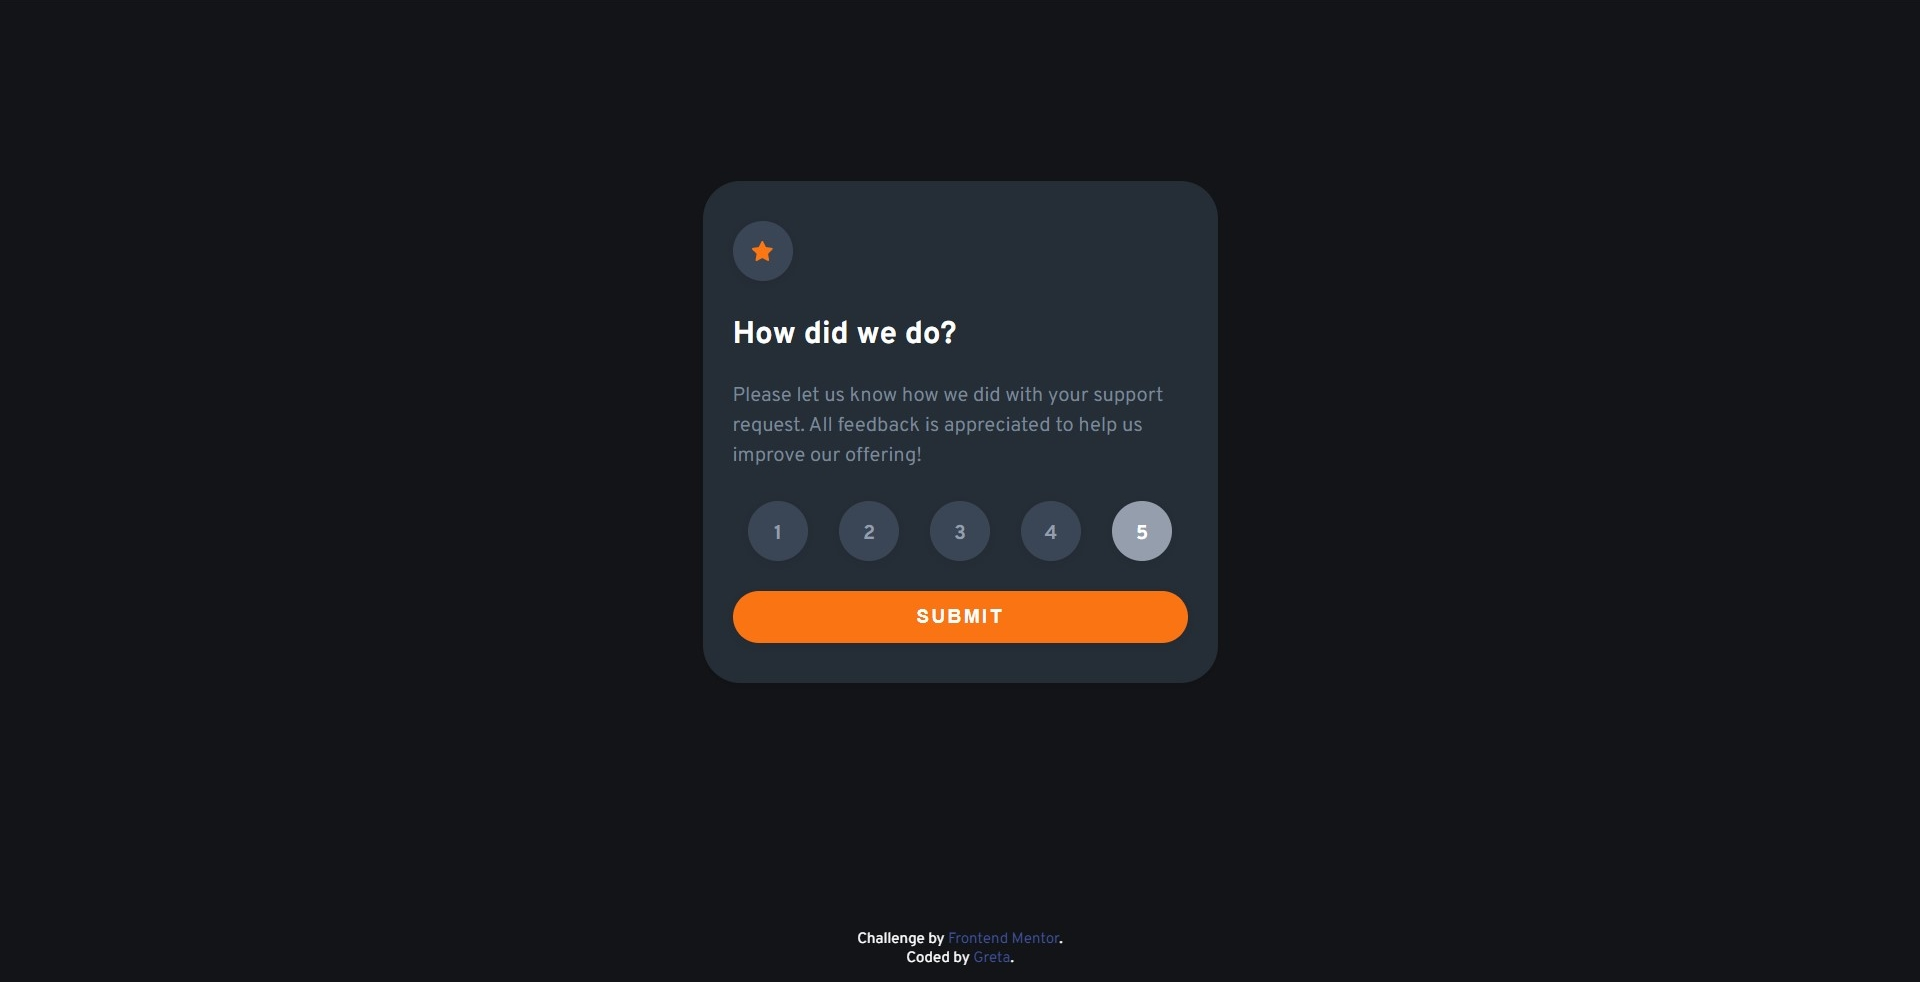
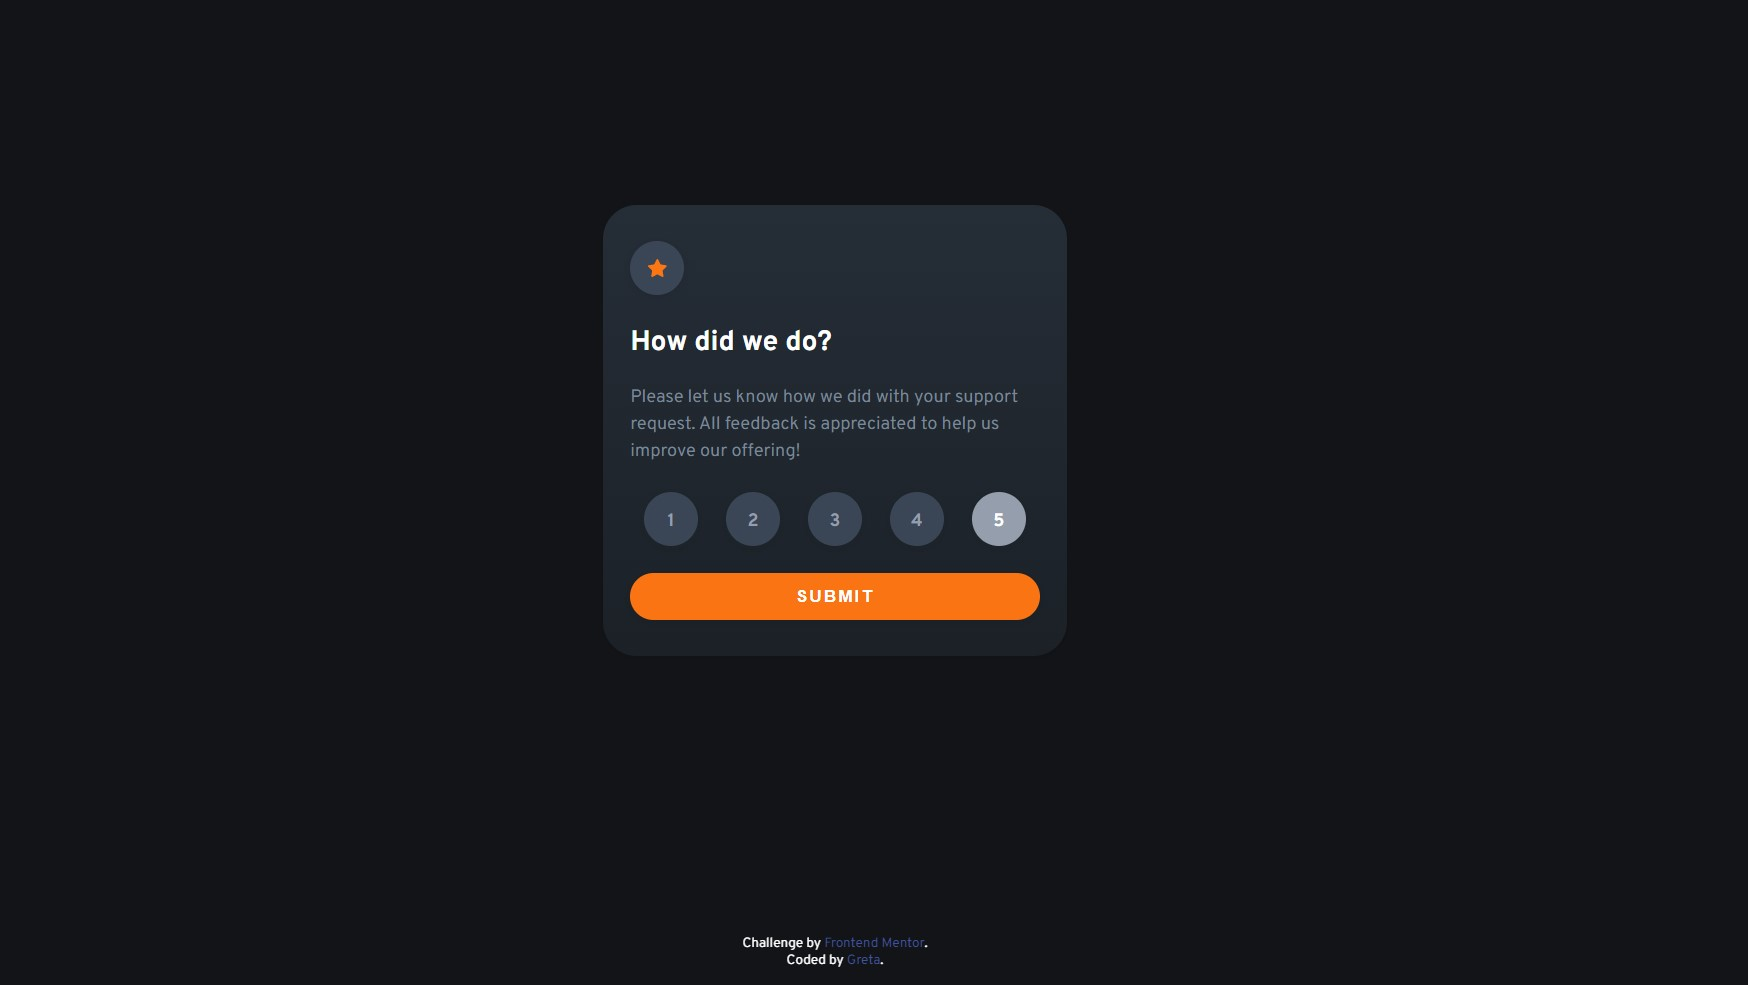
Update form and js

Changed region(s): [[0.3398, 0.1833, 0.6487, 0.7026], [0.4325, 0.947, 0.5561, 0.9776]]

diff --git a/interactive-rating-component-main/index.html b/interactive-rating-component-main/index.html
@@ -10,11 +10,6 @@
       href="./images/favicon-32x32.png"
     />
     <title>Frontend Mentor | Interactive rating component</title>
-    <style>
-      @import url("https://fonts.googleapis.com/css2?family=Overpass:wght@400;700&display=swap");
-    </style>
-    <script src="./js/jquery-3.6.0.min.js"></script>
-    <script src="./js/app.js"></script>
     <link rel="stylesheet" href="./style/style.css" />
   </head>
   <body>
@@ -27,7 +22,7 @@
           Please let us know how we did with your support request. All feedback
           is appreciated to help us improve our offering!
         </p>
-        <form target="iframe_to_remain_same_page" method="get">
+        <form method="get">
           <div class="rating-buttons">
             <label for="rate-1" class="btn-rate shadow rounded-circle"
               >1<input required type="radio" name="rate" id="rate-1" value="1"
@@ -53,12 +48,6 @@
             SUBMIT
           </button>
         </form>
-        <!-- iframe used for staying on the same page after submit -->
-        <iframe
-          id="id_iframe"
-          name="iframe_to_remain_same_page"
-          style="display: none"
-        ></iframe>
       </section>
 
       <!-- Page 2: Success -->
@@ -83,5 +72,8 @@
       Coded by
       <a href="https://github.com/GretaLi">Greta</a>.
     </footer>
+
+    <script src="./js/jquery-3.6.0.min.js"></script>
+    <script src="./js/app.js"></script>
   </body>
 </html>

diff --git a/interactive-rating-component-main/js/app.js b/interactive-rating-component-main/js/app.js
@@ -6,14 +6,16 @@ $(document).ready(function () {
   });
 
   // output rating
-  const points = [1, 2, 3, 4, 5];
+  const points = $("input[name='rate']");
   $(".btn-rate").click(function () {
     let i = $(this).index();
-    $("#output").text(`${points[i]} `);
+    let print = $(points[i]).attr("value");
+    $("#output").text(`${print} `);
   });
 
   // show Thank You and hide Rating
-  $("form").submit(function () {
+  $("form").submit(function (e) {
+    e.preventDefault();
     $(".rating").hide();
     $(".success").show().animate({
       opacity: "1",

diff --git a/interactive-rating-component-main/style/style.scss b/interactive-rating-component-main/style/style.scss
@@ -1,3 +1,4 @@
+@import url("https://fonts.googleapis.com/css2?family=Overpass:wght@400;700&display=swap");
 //color variables
 $primary: hsl(25, 97%, 53%);
 $white: hsl(0, 0%, 100%);
@@ -46,7 +47,7 @@ img {
 
 .wrap {
   padding: 32px 24px;
-  background: $darkBlue;
+  background: linear-gradient(180deg, $darkBlue 0%, darken($darkBlue, 5%) 100%);
   overflow: hidden;
 }
 

diff --git a/interactive-rating-component-main/style/style.css b/interactive-rating-component-main/style/style.css
@@ -1,3 +1,4 @@
+@import url("https://fonts.googleapis.com/css2?family=Overpass:wght@400;700&display=swap");
 * {
   box-sizing: border-box;
   transition: all 0.3s;
@@ -37,7 +38,7 @@ img {
 
 .wrap {
   padding: 32px 24px;
-  background: hsl(213deg, 19%, 18%);
+  background: linear-gradient(180deg, hsl(213deg, 19%, 18%) 0%, #1b2127 100%);
   overflow: hidden;
 }
 

diff --git a/interactive-rating-component-main/README.md b/interactive-rating-component-main/README.md
@@ -14,8 +14,6 @@ This is a solution to the [Interactive rating component challenge on Frontend Me
   - [Useful resources](#useful-resources)
 - [Author](#author)
 
-**Note: Delete this note and update the table of contents based on what sections you keep.**
-
 ## Overview
 
 ### The challenge
@@ -49,7 +47,9 @@ Users should be able to:
 
 ### What I learned
 
-How to stay on the same page after clicking submit button in a form?
+**How to stay on the same page after clicking submit button in a form?**
+
+_WAS_
 
 - Add a `ifram` right after `form` and add `target` on `form` tag.
 
@@ -59,7 +59,51 @@ How to stay on the same page after clicking submit button in a form?
 </iframe>
 ```
 
-How to fade in the hiding area and overlay the previous one?
+_NOW_
+
+- Thanks to [@Gwenaël Magnenat](https://www.frontendmentor.io/solutions/interactive-rating-component-solution-using-jquery-5Ryt4NM1u0#comment-62a8b10fd6026920fcb4fcb9), I learned another method to prevent form redirection.
+- So I remove above `ifram` and use `e.preventDefault()` to avoid page refreshing after submission.
+
+```js
+$("form").submit(function (e) {
+  e.preventDefault();
+  $(".rating").hide();
+  $(".success").show().animate({
+    opacity: "1",
+  });
+  return;
+});
+```
+
+**How to print the content by using `.text()` method?**
+
+- I originally declared an array `const points = [1, 2, 3, 4, 5]` to get the point numbers.
+- With [@Gwenaël Magnenat](https://www.frontendmentor.io/solutions/interactive-rating-component-solution-using-jquery-5Ryt4NM1u0#comment-62a8b10fd6026920fcb4fcb9)'s inspiration, now I change to use `attr("value")` to print the actual value.
+
+_WAS_
+
+```js
+// output rating
+const points = [1, 2, 3, 4, 5];
+$(".btn-rate").click(function () {
+  let i = $(this).index();
+  $("#output").text(`${points[i]} `);
+});
+```
+
+_NOW_
+
+```js
+// output rating
+const points = $("input[name='rate']");
+$(".btn-rate").click(function () {
+  let i = $(this).index();
+  let print = $(points[i]).attr("value");
+  $("#output").text(`${print} `);
+});
+```
+
+**How to fade in the hiding area and overlay the previous one?**
 
 - Instead of suddenly popping out, I attempt to use jQuery `.show()` and `.animate()` method , from `opacity:0` to `opacity: 1`, to fade in the success area.
 
